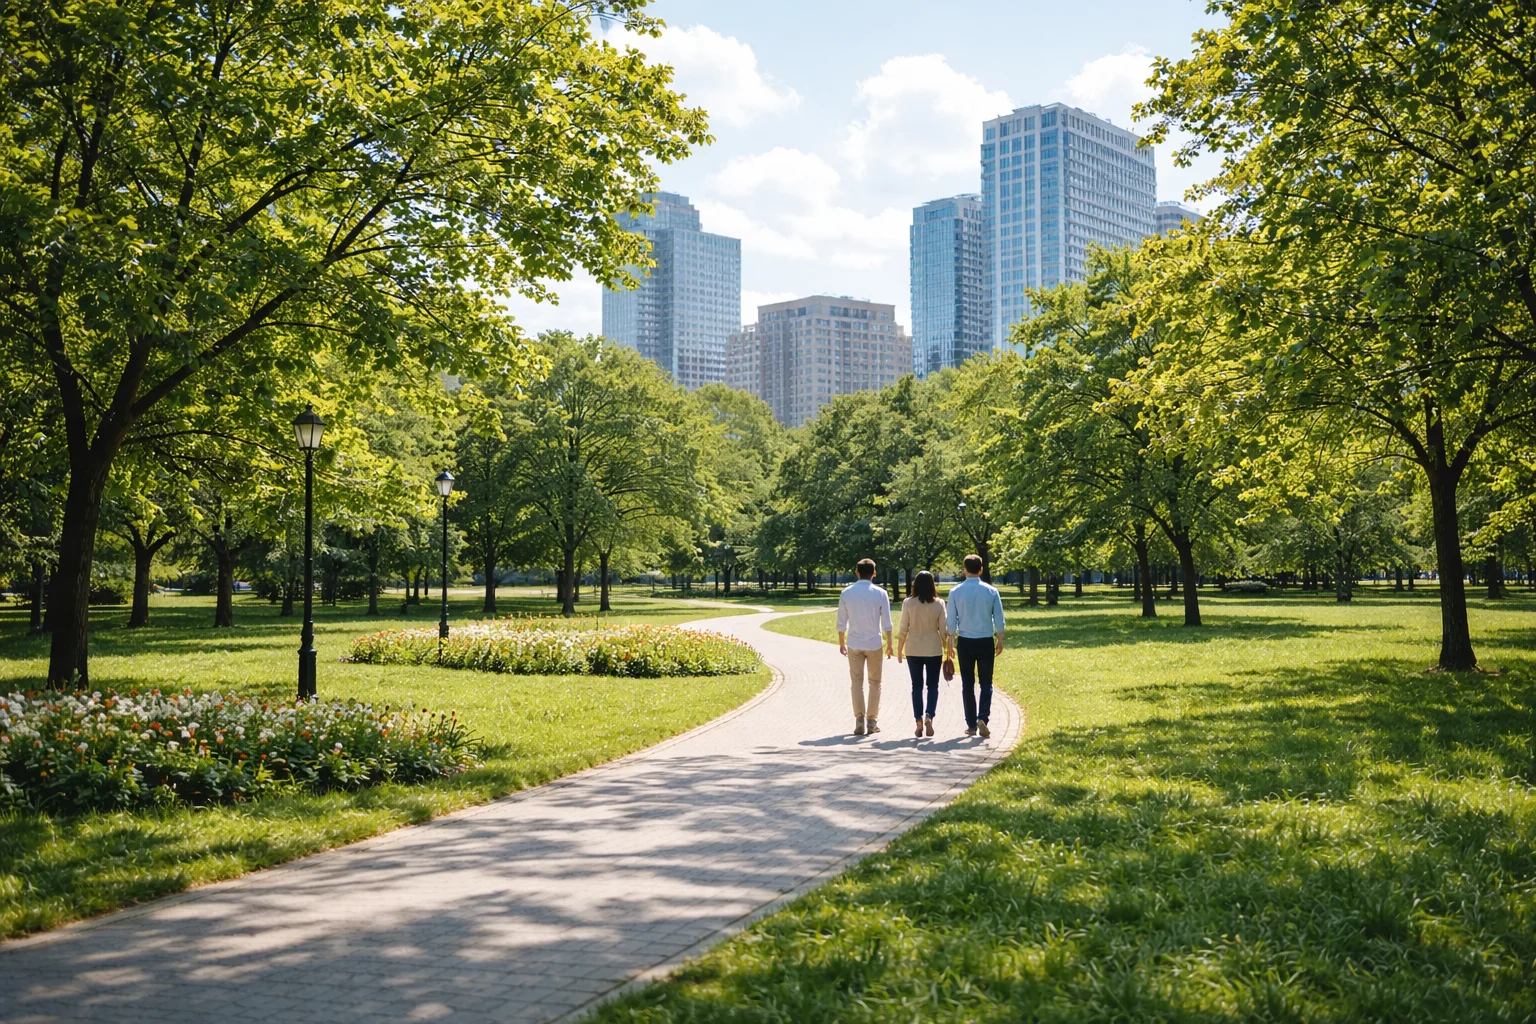
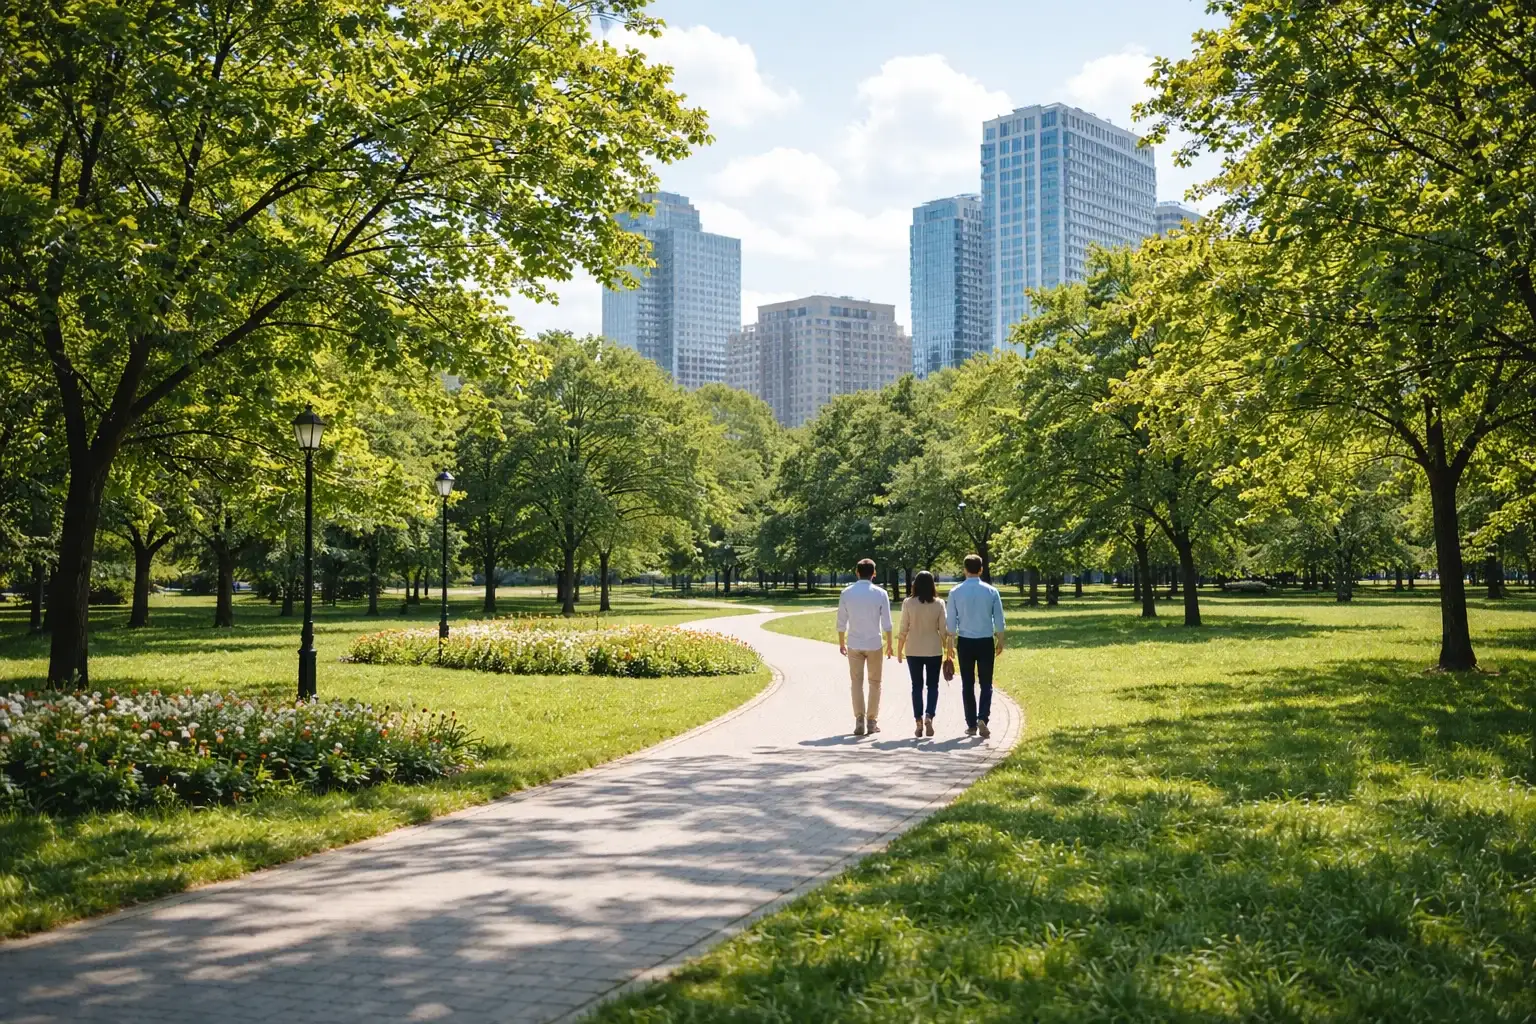
perf: 壓縮背景圖尺寸並加入圖片 lazy loading
三張套用模糊效果的背景圖解析度遠超實際顯示需求，重新壓縮後共省下約 1MB；
另外幫非首屏圖片加上 loading="lazy"，避免首次載入就抓取整頁圖片，改善網站讀取速度。

diff --git a/case-study-tapower.html b/case-study-tapower.html
@@ -133,17 +133,17 @@
           <div class="cs-v1-grid">
             <div class="cs-v1-card">
               <p class="cs-v1-card-title" data-zh="新版吉祥物大量曝光" data-en="New Mascots in the Spotlight">新版吉祥物大量曝光</p>
-              <img class="cs-v1-card-img" src="assets/images/cs-tapower-mascot-v1.webp" alt="電力即點吉祥物">
+              <img loading="lazy" class="cs-v1-card-img" src="assets/images/cs-tapower-mascot-v1.webp" alt="電力即點吉祥物">
               <p data-zh="建立背景故事，讓每個角色有其負責的功能項目與用戶對話，並加入升級機制，與用戶一同成長。" data-en="Built a backstory so each character owns specific features and interacts with users, with a leveling system that grows alongside them.">建立背景故事，讓每個角色有其負責的功能項目與用戶對話，並加入升級機制，與用戶一同成長。</p>
             </div>
             <div class="cs-v1-card">
               <p class="cs-v1-card-title" data-zh="介面全新改版" data-en="Full UI Redesign">介面全新改版</p>
-              <img class="cs-v1-card-img" src="assets/images/cs-tapower-v1-ui.webp" alt="電力即點 V1 介面">
+              <img loading="lazy" class="cs-v1-card-img" src="assets/images/cs-tapower-v1-ui.webp" alt="電力即點 V1 介面">
               <p data-zh="大範圍參考遊戲介面，建立屬於電力即點世界的全新視覺風格，改變公部門數位產品的形象。" data-en="Drew heavily from game UI conventions to establish a distinct visual style for the Taipower Points world — reshaping the image of a government digital product.">大範圍參考遊戲介面，建立屬於電力即點世界的全新視覺風格，改變公部門數位產品的形象。</p>
             </div>
             <div class="cs-v1-card">
               <p class="cs-v1-card-title" data-zh="管理後台改版" data-en="Admin Backend Redesign">管理後台改版</p>
-              <img class="cs-v1-card-img" src="assets/images/cs-tapower-backend.webp" alt="電力即點管理後台">
+              <img loading="lazy" class="cs-v1-card-img" src="assets/images/cs-tapower-backend.webp" alt="電力即點管理後台">
               <p data-zh="針對問答題庫，用戶數據與寶箱點位等功能建立完整管理後台，提升承辦人員管理效率。" data-en="Built a comprehensive admin backend covering the question bank, user data, and treasure box locations — significantly improving operational efficiency for staff.">針對問答題庫，用戶數據與寶箱點位等功能建立完整管理後台，提升承辦人員管理效率。</p>
             </div>
           </div>
@@ -181,7 +181,7 @@
               <span class="cs-focus-pill" data-zh="強化內在遊玩動機" data-en="Strengthen Intrinsic Play Motivation">強化內在遊玩動機</span>
               <span class="cs-focus-pill" data-zh="創造民眾互動" data-en="Create Player Interaction">創造民眾互動</span>
             </div>
-            <img src="assets/images/cs-tapower-box-icons.webp" alt="寶箱" style="width:80px; margin-top:32px; display:block;">
+            <img loading="lazy" src="assets/images/cs-tapower-box-icons.webp" alt="寶箱" style="width:80px; margin-top:32px; display:block;">
           </div>
         </div>
       </section>
@@ -189,10 +189,10 @@
       <!-- 拼圖系統（圖左、文右）-->
       <div class="cs-design-row cs-design-row--phone-left">
         <div>
-          <img class="cs-design-phone" src="assets/images/cs-tapower-design-phone-1.webp" alt="電力即點拼圖系統">
+          <img loading="lazy" class="cs-design-phone" src="assets/images/cs-tapower-design-phone-1.webp" alt="電力即點拼圖系統">
         </div>
         <div>
-          <img class="cs-design-icon" src="assets/images/cs-tapower-puzzle.webp" alt="拼圖">
+          <img loading="lazy" class="cs-design-icon" src="assets/images/cs-tapower-puzzle.webp" alt="拼圖">
           <p class="cs-design-label" data-zh="拿到就有，不用搶" data-en="Guaranteed Rewards, No More Racing">拿到就有，不用搶</p>
           <h3 class="cs-design-title" data-zh="拼圖系統：豐富寶箱品項隨機性" data-en="Puzzle System: Adding Variety to Treasure Box Drops">拼圖系統：豐富寶箱品項隨機性</h3>
           <p class="cs-design-body" data-zh="在普通寶箱內，新增了可以直接兌換品項的&lt;span class=&quot;accent&quot;&gt;「拼圖碎片」&lt;/span&gt;，在一個季度內若能搜集滿一片完整的拼圖，即可&lt;span class=&quot;accent&quot;&gt;保證兌換品項&lt;/span&gt;。" data-en="Inside regular treasure boxes, we added&lt;span class=&quot;accent&quot;&gt; &quot;Puzzle Pieces&quot;&lt;/span&gt; — collect a full puzzle within a quarter and you're&lt;span class=&quot;accent&quot;&gt; guaranteed a redemption item&lt;/span&gt;.">在普通寶箱內，新增了可以直接兌換品項的<span class="accent">「拼圖碎片」</span>，在一個季度內若能搜集滿一片完整的拼圖，即可<span class="accent">保證兌換品項</span>。</p>
@@ -203,25 +203,25 @@
       <!-- 連續登入 / 計步（文左、圖右）-->
       <div class="cs-design-row">
         <div>
-          <img src="assets/images/cs-tapower-level-icons.webp" alt="角色升級" style="height:48px; width:auto; max-width:100%; object-fit:contain; margin-bottom:24px; display:block;">
+          <img loading="lazy" src="assets/images/cs-tapower-level-icons.webp" alt="角色升級" style="height:48px; width:auto; max-width:100%; object-fit:contain; margin-bottom:24px; display:block;">
           <p class="cs-design-label" data-zh="不開寶箱，也能體驗升級的快樂" data-en="Level Up Even Without Opening a Box">不開寶箱，也能體驗升級的快樂</p>
           <h3 class="cs-design-title" data-zh="新增連續登入獎勵、計步任務、高級派遣技能" data-en="Daily Login Streaks, Step Missions &amp; Advanced Dispatch Skill">新增連續登入獎勵、計步任務、高級派遣技能</h3>
           <p class="cs-design-body" data-zh="除既有問答、地圖尋寶外，採用了以角色經驗值為主要獎勵的&lt;span class=&quot;accent&quot;&gt;「連續登入獎勵」&lt;/span&gt;以及&lt;span class=&quot;accent&quot;&gt;「計步任務」&lt;/span&gt;機制，讓用戶在日常生活中也能見證到角色的成長，將原先以「兌換點數」的務實需求，轉至對於&lt;span class=&quot;accent&quot;&gt;角色成長的內在驅動力&lt;/span&gt;。" data-en="Beyond existing quizzes and map hunts, we introduced XP-based rewards through&lt;span class=&quot;accent&quot;&gt; Daily Login Streaks&lt;/span&gt; and&lt;span class=&quot;accent&quot;&gt; Step Missions&lt;/span&gt; — letting users witness their character grow through daily life, shifting motivation from &quot;earn points to redeem things&quot; to an&lt;span class=&quot;accent&quot;&gt; intrinsic drive to grow their character&lt;/span&gt;.">除既有問答、地圖尋寶外，採用了以角色經驗值為主要獎勵的<span class="accent">「連續登入獎勵」</span>以及<span class="accent">「計步任務」</span>機制，讓用戶在日常生活中也能見證到角色的成長，將原先以「兌換點數」的務實需求，轉至對於<span class="accent">角色成長的內在驅動力</span>。</p>
           <p class="cs-design-body" style="margin-top:12px;" data-zh="而當角色成長到更高階型態時，即可使用&lt;span class=&quot;accent&quot;&gt;「高級派遣技能」&lt;/span&gt;一次開啟半徑固定範圍內的所有寶箱，以獎勵認真參與遊戲的忠誠用戶。" data-en="And when a character evolves to a higher tier, they unlock the&lt;span class=&quot;accent&quot;&gt; Advanced Dispatch Skill&lt;/span&gt; — opening all treasure boxes within a fixed radius in one go, rewarding loyal players who've put in the time.">而當角色成長到更高階型態時，即可使用<span class="accent">「高級派遣技能」</span>一次開啟半徑固定範圍內的所有寶箱，以獎勵認真參與遊戲的忠誠用戶。</p>
         </div>
         <div class="cs-phones-overlap">
-          <img class="cs-phone-back" src="assets/images/cs-tapower-design-phone-2.webp" alt="連續登入獎勵">
-          <img class="cs-phone-front" src="assets/images/cs-tapower-design-phone-3.webp" alt="高級派遣技能">
+          <img loading="lazy" class="cs-phone-back" src="assets/images/cs-tapower-design-phone-2.webp" alt="連續登入獎勵">
+          <img loading="lazy" class="cs-phone-front" src="assets/images/cs-tapower-design-phone-3.webp" alt="高級派遣技能">
         </div>
       </div>
 
       <!-- 成就任務（圖左、文右）-->
       <div class="cs-design-row cs-design-row--phone-left" style="margin-bottom:80px;">
         <div>
-          <img class="cs-design-phone" src="assets/images/cs-tapower-v3-achievement.webp" alt="電力即點 成就系統">
+          <img loading="lazy" class="cs-design-phone" src="assets/images/cs-tapower-v3-achievement.webp" alt="電力即點 成就系統">
         </div>
         <div>
-          <img class="cs-design-icon" src="assets/images/cs-tapower-key.webp" alt="金鑰">
+          <img loading="lazy" class="cs-design-icon" src="assets/images/cs-tapower-key.webp" alt="金鑰">
           <p class="cs-design-label" data-zh="讓遊戲行為成為獎勵的一部分" data-en="Turn Game Actions into Rewards Themselves">讓遊戲行為成為獎勵的一部分</p>
           <h3 class="cs-design-title" data-zh="新增成就任務與活動型後台" data-en="Achievement Missions &amp; Campaign Admin Backend">新增成就任務與活動型後台</h3>
           <p class="cs-design-body" data-zh="因應台電時常出現的行銷活動需求，我們將期望用戶執行的動作列為成就解鎖列表引導用戶產生特定行為，讓單調、負面的事件也能轉化為新的樂趣。" data-en="To accommodate Taipower's frequent marketing campaign needs, we turned desired user actions into achievement unlock lists — guiding specific behaviors and transforming mundane or even negative events into new sources of fun.">因應台電時常出現的行銷活動需求，我們將期望用戶執行的動作列為成就解鎖列表引導用戶產生特定行為，讓單調、負面的事件也能轉化為新的樂趣。</p>
@@ -275,7 +275,7 @@
             <p style="color:var(--muted); margin-top:16px;" data-zh="唯於後續開發過程中已離職，無法取得後續用戶反饋及資料，故僅簡短說明。" data-en="I left the project before these features were completed, so I'm unable to share user feedback or outcome data — hence the brief summary.">唯於後續開發過程中已離職，無法取得後續用戶反饋及資料，故僅簡短說明。</p>
           </div>
           <div style="display:flex; align-items:center; justify-content:center;">
-            <img class="cs-img" src="assets/images/cs-tapower-v3-character.webp" alt="電力即點 V3 角色" style="max-width:200px;">
+            <img loading="lazy" class="cs-img" src="assets/images/cs-tapower-v3-character.webp" alt="電力即點 V3 角色" style="max-width:200px;">
           </div>
         </div>
       </section>
@@ -284,7 +284,7 @@
       <section class="cs-section">
         <div class="cs-row-2 cs-row-2-img-left" style="align-items:center;">
           <div style="display:flex; align-items:center; justify-content:center;">
-            <img src="assets/images/cs-tapower-v3-characterebo.webp" alt="電力即點吉祥物" style="width:100%; max-width:280px; object-fit:contain;">
+            <img loading="lazy" src="assets/images/cs-tapower-v3-characterebo.webp" alt="電力即點吉祥物" style="width:100%; max-width:280px; object-fit:contain;">
           </div>
           <div>
             <p class="cs-section-label" data-zh="學習與反思" data-en="Reflection">學習與反思</p>

diff --git a/case-study-fitness.html b/case-study-fitness.html
@@ -136,9 +136,9 @@
             <div class="cs-fitness-step" data-zh="完成紀錄" data-en="Log complete">完成紀錄</div>
           </div>
           <div class="cs-fitness-flow-images">
-            <img src="assets/images/cs-fitness-flow-record-1.webp" alt="紀錄操作流程截圖 1">
-            <img src="assets/images/cs-fitness-flow-record-mid.webp" alt="紀錄操作流程截圖 2">
-            <img src="assets/images/cs-fitness-flow-record-2.webp" alt="紀錄操作流程截圖 3">
+            <img loading="lazy" src="assets/images/cs-fitness-flow-record-1.webp" alt="紀錄操作流程截圖 1">
+            <img loading="lazy" src="assets/images/cs-fitness-flow-record-mid.webp" alt="紀錄操作流程截圖 2">
+            <img loading="lazy" src="assets/images/cs-fitness-flow-record-2.webp" alt="紀錄操作流程截圖 3">
           </div>
         </div>
       </div>
@@ -159,9 +159,9 @@
             <div class="cs-fitness-step" data-zh="回到紀錄頁面" data-en="Back to log">回到紀錄頁面</div>
           </div>
           <div class="cs-fitness-flow-images">
-            <img src="assets/images/cs-fitness-flow-timer-1.webp" alt="計時操作流程截圖 1">
-            <img src="assets/images/cs-fitness-flow-timer-2.webp" alt="計時操作流程截圖 2">
-            <img src="assets/images/cs-fitness-flow-timer-3.webp" alt="計時操作流程截圖 3">
+            <img loading="lazy" src="assets/images/cs-fitness-flow-timer-1.webp" alt="計時操作流程截圖 1">
+            <img loading="lazy" src="assets/images/cs-fitness-flow-timer-2.webp" alt="計時操作流程截圖 2">
+            <img loading="lazy" src="assets/images/cs-fitness-flow-timer-3.webp" alt="計時操作流程截圖 3">
           </div>
         </div>
       </div>
@@ -222,14 +222,14 @@
       <!-- 資訊架構示意畫面 -->
       <div class="cs-section">
         <p class="cs-fitness-caption" data-zh="資訊架構示意畫面" data-en="IA Sketch">資訊架構示意畫面</p>
-        <img class="cs-img" src="assets/images/cs-fitness-ia.webp" alt="資訊架構示意畫面">
+        <img loading="lazy" class="cs-img" src="assets/images/cs-fitness-ia.webp" alt="資訊架構示意畫面">
       </div>
 
       <!-- Wireframe -->
       <div class="cs-section">
         <p data-zh="當所有欄位與重點功能皆思考完整後，為了確保後續AI產出的內容與我腦中所想的產品樣貌能&lt;span class=&quot;accent&quot;&gt;準確對齊&lt;/span&gt;，我依然使&lt;span class=&quot;accent&quot;&gt;用Figma進行Wireframe的設計&lt;/span&gt;，並將每個欄位、判斷、輸入指令、功能內容以及不同狀態、頁面排版等完整產出，且&lt;span class=&quot;accent&quot;&gt;留下明確的頁面編碼，以利後續與AI溝通&lt;/span&gt;。" data-en="Once every field and key feature was fully thought through, to make sure what AI would later produce &lt;span class=&quot;accent&quot;&gt;accurately matched&lt;/span&gt; the product I had in mind, I still &lt;span class=&quot;accent&quot;&gt;built the wireframe in Figma&lt;/span&gt; — laying out every field, condition, input prompt, feature, state, and page layout in full, and &lt;span class=&quot;accent&quot;&gt;leaving clear page IDs to make talking to AI easier later on&lt;/span&gt;.">當所有欄位與重點功能皆思考完整後，為了確保後續AI產出的內容與我腦中所想的產品樣貌能<span class="accent">準確對齊</span>，我依然使<span class="accent">用Figma進行Wireframe的設計</span>，並將每個欄位、判斷、輸入指令、功能內容以及不同狀態、頁面排版等完整產出，且<span class="accent">留下明確的頁面編碼，以利後續與AI溝通</span>。</p>
         <p class="cs-fitness-caption" style="margin-top:32px;" data-zh="Wireframe 示意畫面" data-en="Wireframe Sketch">Wireframe 示意畫面</p>
-        <img class="cs-img" src="assets/images/cs-fitness-wireframe.webp" alt="Wireframe 示意畫面">
+        <img loading="lazy" class="cs-img" src="assets/images/cs-fitness-wireframe.webp" alt="Wireframe 示意畫面">
       </div>
 
       <!-- Vibe coding + 保密註記 + Tech stack -->
@@ -266,13 +266,13 @@
       <section class="cs-section" style="margin-bottom:0;">
         <div class="cs-fitness-reflect-row">
           <div class="cs-fitness-bodypart-grid">
-            <img src="assets/images/cs-fitness-bodypart-arm.webp" alt="手臂訓練">
-            <img src="assets/images/cs-fitness-bodypart-back.webp" alt="背部訓練">
-            <img src="assets/images/cs-fitness-bodypart-leg.webp" alt="腿部訓練">
-            <img src="assets/images/cs-fitness-bodypart-shoulder.webp" alt="肩膀訓練">
-            <img src="assets/images/cs-fitness-bodypart-abs.webp" alt="腹部訓練">
-            <img src="assets/images/cs-fitness-bodypart-chest.webp" alt="胸部訓練">
-            <img src="assets/images/cs-fitness-bodypart-other.webp" alt="其他訓練">
+            <img loading="lazy" src="assets/images/cs-fitness-bodypart-arm.webp" alt="手臂訓練">
+            <img loading="lazy" src="assets/images/cs-fitness-bodypart-back.webp" alt="背部訓練">
+            <img loading="lazy" src="assets/images/cs-fitness-bodypart-leg.webp" alt="腿部訓練">
+            <img loading="lazy" src="assets/images/cs-fitness-bodypart-shoulder.webp" alt="肩膀訓練">
+            <img loading="lazy" src="assets/images/cs-fitness-bodypart-abs.webp" alt="腹部訓練">
+            <img loading="lazy" src="assets/images/cs-fitness-bodypart-chest.webp" alt="胸部訓練">
+            <img loading="lazy" src="assets/images/cs-fitness-bodypart-other.webp" alt="其他訓練">
           </div>
           <div>
             <p class="cs-section-label" data-zh="學習與反思" data-en="Learnings &amp; Reflections">學習與反思</p>

diff --git a/case-study-paperplane.html b/case-study-paperplane.html
@@ -133,7 +133,7 @@
             <p>官方網站：<a href="https://flyingclub.io/" target="_blank" rel="noopener" class="cs-inline-link">https://flyingclub.io/</a></p>
           </div>
           <div style="display:flex; flex-direction:column; align-items:center; justify-content:center; gap:24px;">
-            <img src="assets/images/cs-pp-brand.webp" alt="PaperPlane Brand" style="width:100%; max-width:320px; object-fit:contain;">
+            <img loading="lazy" src="assets/images/cs-pp-brand.webp" alt="PaperPlane Brand" style="width:100%; max-width:320px; object-fit:contain;">
             <div class="cs-store-badges">
               <a href="https://apps.apple.com/tw/app/paperplane-%E9%85%92%E5%90%A7%E6%8C%87%E5%8D%97/id6636527869" target="_blank" rel="noopener"><img src="assets/images/cs-pp-appstore.svg" alt="App Store"></a>
               <a href="https://play.google.com/store/apps/details?id=guide.paperplane.app&pcampaignid=web_share" target="_blank" rel="noopener"><img src="assets/images/cs-pp-googleplay.svg" alt="Google Play"></a>
@@ -200,11 +200,11 @@
         <div class="cs-compare-grid">
           <div>
             <div style="margin-bottom:12px;"><span class="cs-compare-label" data-zh="V 1.0 首頁（以地圖為主）" data-en="V 1.0 Home (Map-focused)">V 1.0 首頁（以地圖為主）</span></div>
-            <img class="cs-img" src="assets/images/cs-pp-v1-home.webp" alt="PaperPlane V1 首頁">
+            <img loading="lazy" class="cs-img" src="assets/images/cs-pp-v1-home.webp" alt="PaperPlane V1 首頁">
           </div>
           <div>
             <div style="margin-bottom:12px;"><span class="cs-compare-label cs-compare-label-accent" data-zh="V 2.0 首頁（以支付為主）" data-en="V 2.0 Home (Payment-focused)">V 2.0 首頁（以支付為主）</span></div>
-            <img class="cs-img" src="assets/images/cs-pp-v2-annotated.webp" alt="PaperPlane V2 首頁">
+            <img loading="lazy" class="cs-img" src="assets/images/cs-pp-v2-annotated.webp" alt="PaperPlane V2 首頁">
           </div>
         </div>
       </section>
@@ -249,8 +249,8 @@
           </div>
           <!-- 右側手機截圖 -->
           <div class="cs-flow-screens">
-            <img src="assets/images/cs-pp-payment-flow1.webp" alt="PaperPlane 付款畫面">
-            <img src="assets/images/cs-pp-payment-flow2.webp" alt="PaperPlane 付款完成">
+            <img loading="lazy" src="assets/images/cs-pp-payment-flow1.webp" alt="PaperPlane 付款畫面">
+            <img loading="lazy" src="assets/images/cs-pp-payment-flow2.webp" alt="PaperPlane 付款完成">
           </div>
         </div>
       </section>
@@ -263,7 +263,7 @@
             <p class="cs-section-label">Result</p>
             <h2 class="cs-section-title" data-zh="關鍵數字" data-en="Key Metrics">關鍵數字</h2>
             <div class="cs-result-inner">
-              <img class="cs-result-deco" src="assets/images/cs-pp-icon-wine.webp" alt="">
+              <img loading="lazy" class="cs-result-deco" src="assets/images/cs-pp-icon-wine.webp" alt="">
               <div class="cs-metric-stack">
                 <div class="cs-metric-item">
                   <p class="cs-metric-num">61%</p>

diff --git a/index.html b/index.html
@@ -153,7 +153,7 @@
                 <h2 class="cs-card-title">PaperPlane App</h2>
               </div>
             </div>
-            <img class="cs-card-phone"
+            <img loading="lazy" class="cs-card-phone"
                  src="assets/images/cs-pp-v2-home@3x.webp"
                  alt="PaperPlane App">
           </a>
@@ -173,7 +173,7 @@
                 <h2 class="cs-card-title" data-zh="電力即點 App" data-en="Taipower Points App">電力即點 App</h2>
               </div>
             </div>
-            <img class="cs-card-phone"
+            <img loading="lazy" class="cs-card-phone"
                  src="assets/images/cs-tapower-v3-map.webp"
                  alt="電力即點 App">
           </a>
@@ -195,7 +195,7 @@
             </div>
             <picture>
               <source media="(max-width: 600px)" srcset="assets/images/cs-fitness-card-phone-front.webp">
-              <img class="cs-card-phone"
+              <img loading="lazy" class="cs-card-phone"
                    src="assets/images/cs-fitness-card-phone.webp"
                    alt="健身紀錄 Web App">
             </picture>
